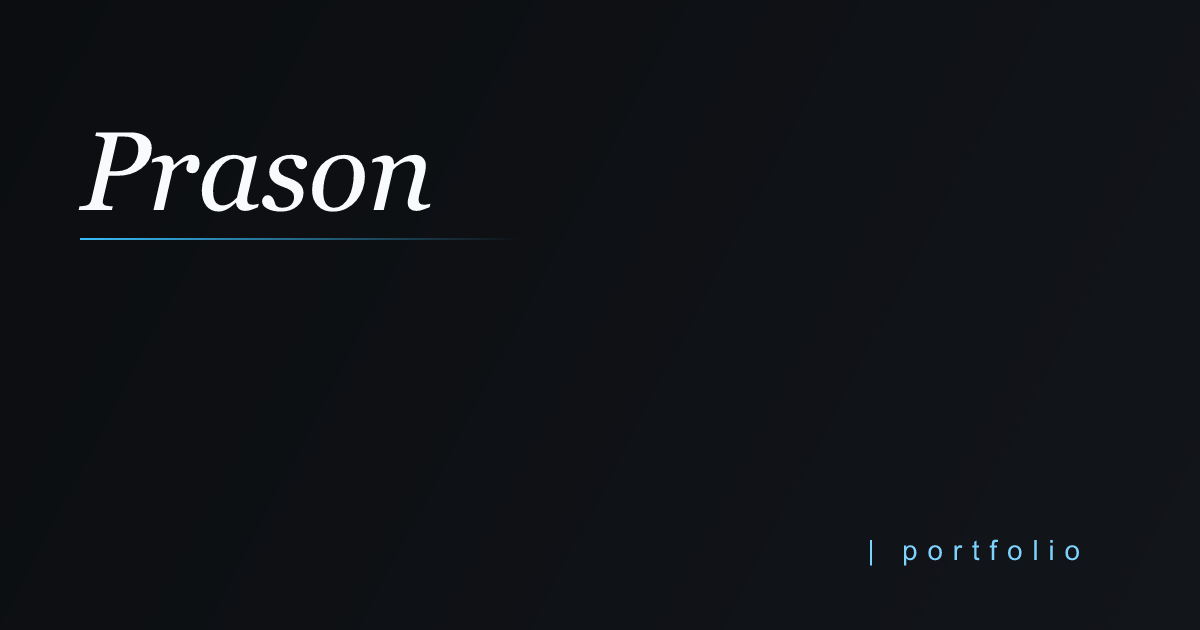
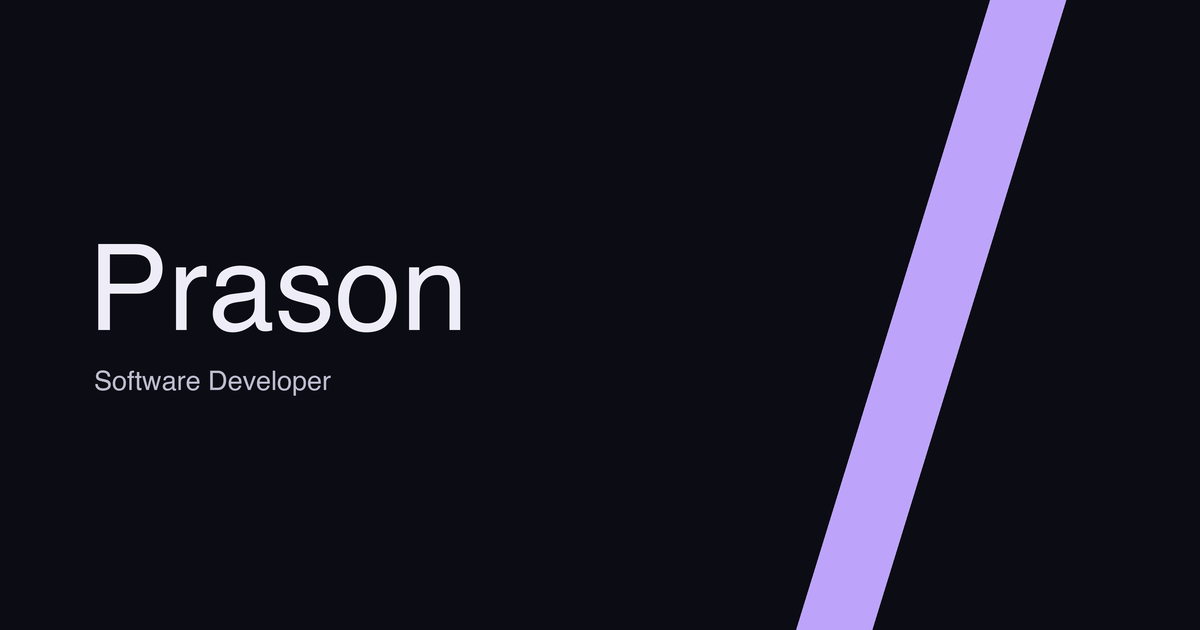
chore: 🤖 OGP画像とfaviconを刷新
ロゴマークの傾きに合わせた幾何的な意匠に統一し、Pillow で PNG と
SVG を同時に生成するスクリプトを追加。

diff --git a/index.html b/index.html
@@ -35,7 +35,7 @@
             rel="stylesheet"
             href="https://fonts.googleapis.com/css2?family=JetBrains+Mono:wght@400;500;600&family=Noto+Sans+JP:wght@400;500;600;700;800&family=Newsreader:ital,wght@1,400;1,500&family=Space+Grotesk:wght@400;500;600;700&display=swap"
         />
-        <link rel="icon" href="%BASE_URL%icons.svg" type="image/svg+xml" />
+        <link rel="icon" href="%BASE_URL%favicon.svg" type="image/svg+xml" />
         <script>
             (function () {
                 try {

diff --git a/scripts/generate-og.py b/scripts/generate-og.py
@@ -1,0 +1,27 @@
+"""Regenerate the geometric OGP artwork (Python + Pillow, macOS Helvetica)."""
+from pathlib import Path
+from PIL import Image, ImageDraw, ImageFont
+
+ROOT = Path(__file__).resolve().parents[1]
+SCALE = 3
+BACKGROUND = '#0c0d14'
+BANDS = [(990, '#bda4fa')]
+# The rise/run follows the inclined Prason mark. Ends extend beyond the canvas.
+POLYGONS = [([(x, 0), (x + 76, 0), (x - 118, 630), (x - 194, 630)], color) for x, color in BANDS]
+LABELS = [('Prason', 88, 330, 120, '#eeedf7'), ('Software Developer', 94, 390, 27, '#bfbdd0')]
+FONT = '/System/Library/Fonts/Helvetica.ttc'
+image = Image.new('RGB', (1200 * SCALE, 630 * SCALE), BACKGROUND)
+draw = ImageDraw.Draw(image)
+for points, color in POLYGONS:
+    draw.polygon([(x * SCALE, y * SCALE) for x, y in points], fill=color)
+for text, x, baseline, size, color in LABELS:
+    font = ImageFont.truetype(FONT, size * SCALE)
+    draw.text((x * SCALE, baseline * SCALE), text, font=font, fill=color, anchor='ls')
+image.resize((1200, 630), Image.Resampling.LANCZOS).save(ROOT / 'public/og.png', optimize=True)
+parts = ['<svg xmlns="http://www.w3.org/2000/svg" width="1200" height="630" viewBox="0 0 1200 630">', '<title>Prason — Software Developer</title>', f'<rect width="1200" height="630" fill="{BACKGROUND}"/>']
+for points, color in POLYGONS:
+    parts.append(f'<polygon points="{" ".join(f"{x},{y}" for x,y in points)}" fill="{color}"/>')
+for text, x, baseline, size, color in LABELS:
+    parts.append(f'<text x="{x}" y="{baseline}" font-family="Helvetica, Arial, sans-serif" font-size="{size}" fill="{color}">{text}</text>')
+parts.append('</svg>')
+(ROOT / 'public/og.svg').write_text('\n'.join(parts) + '\n')
